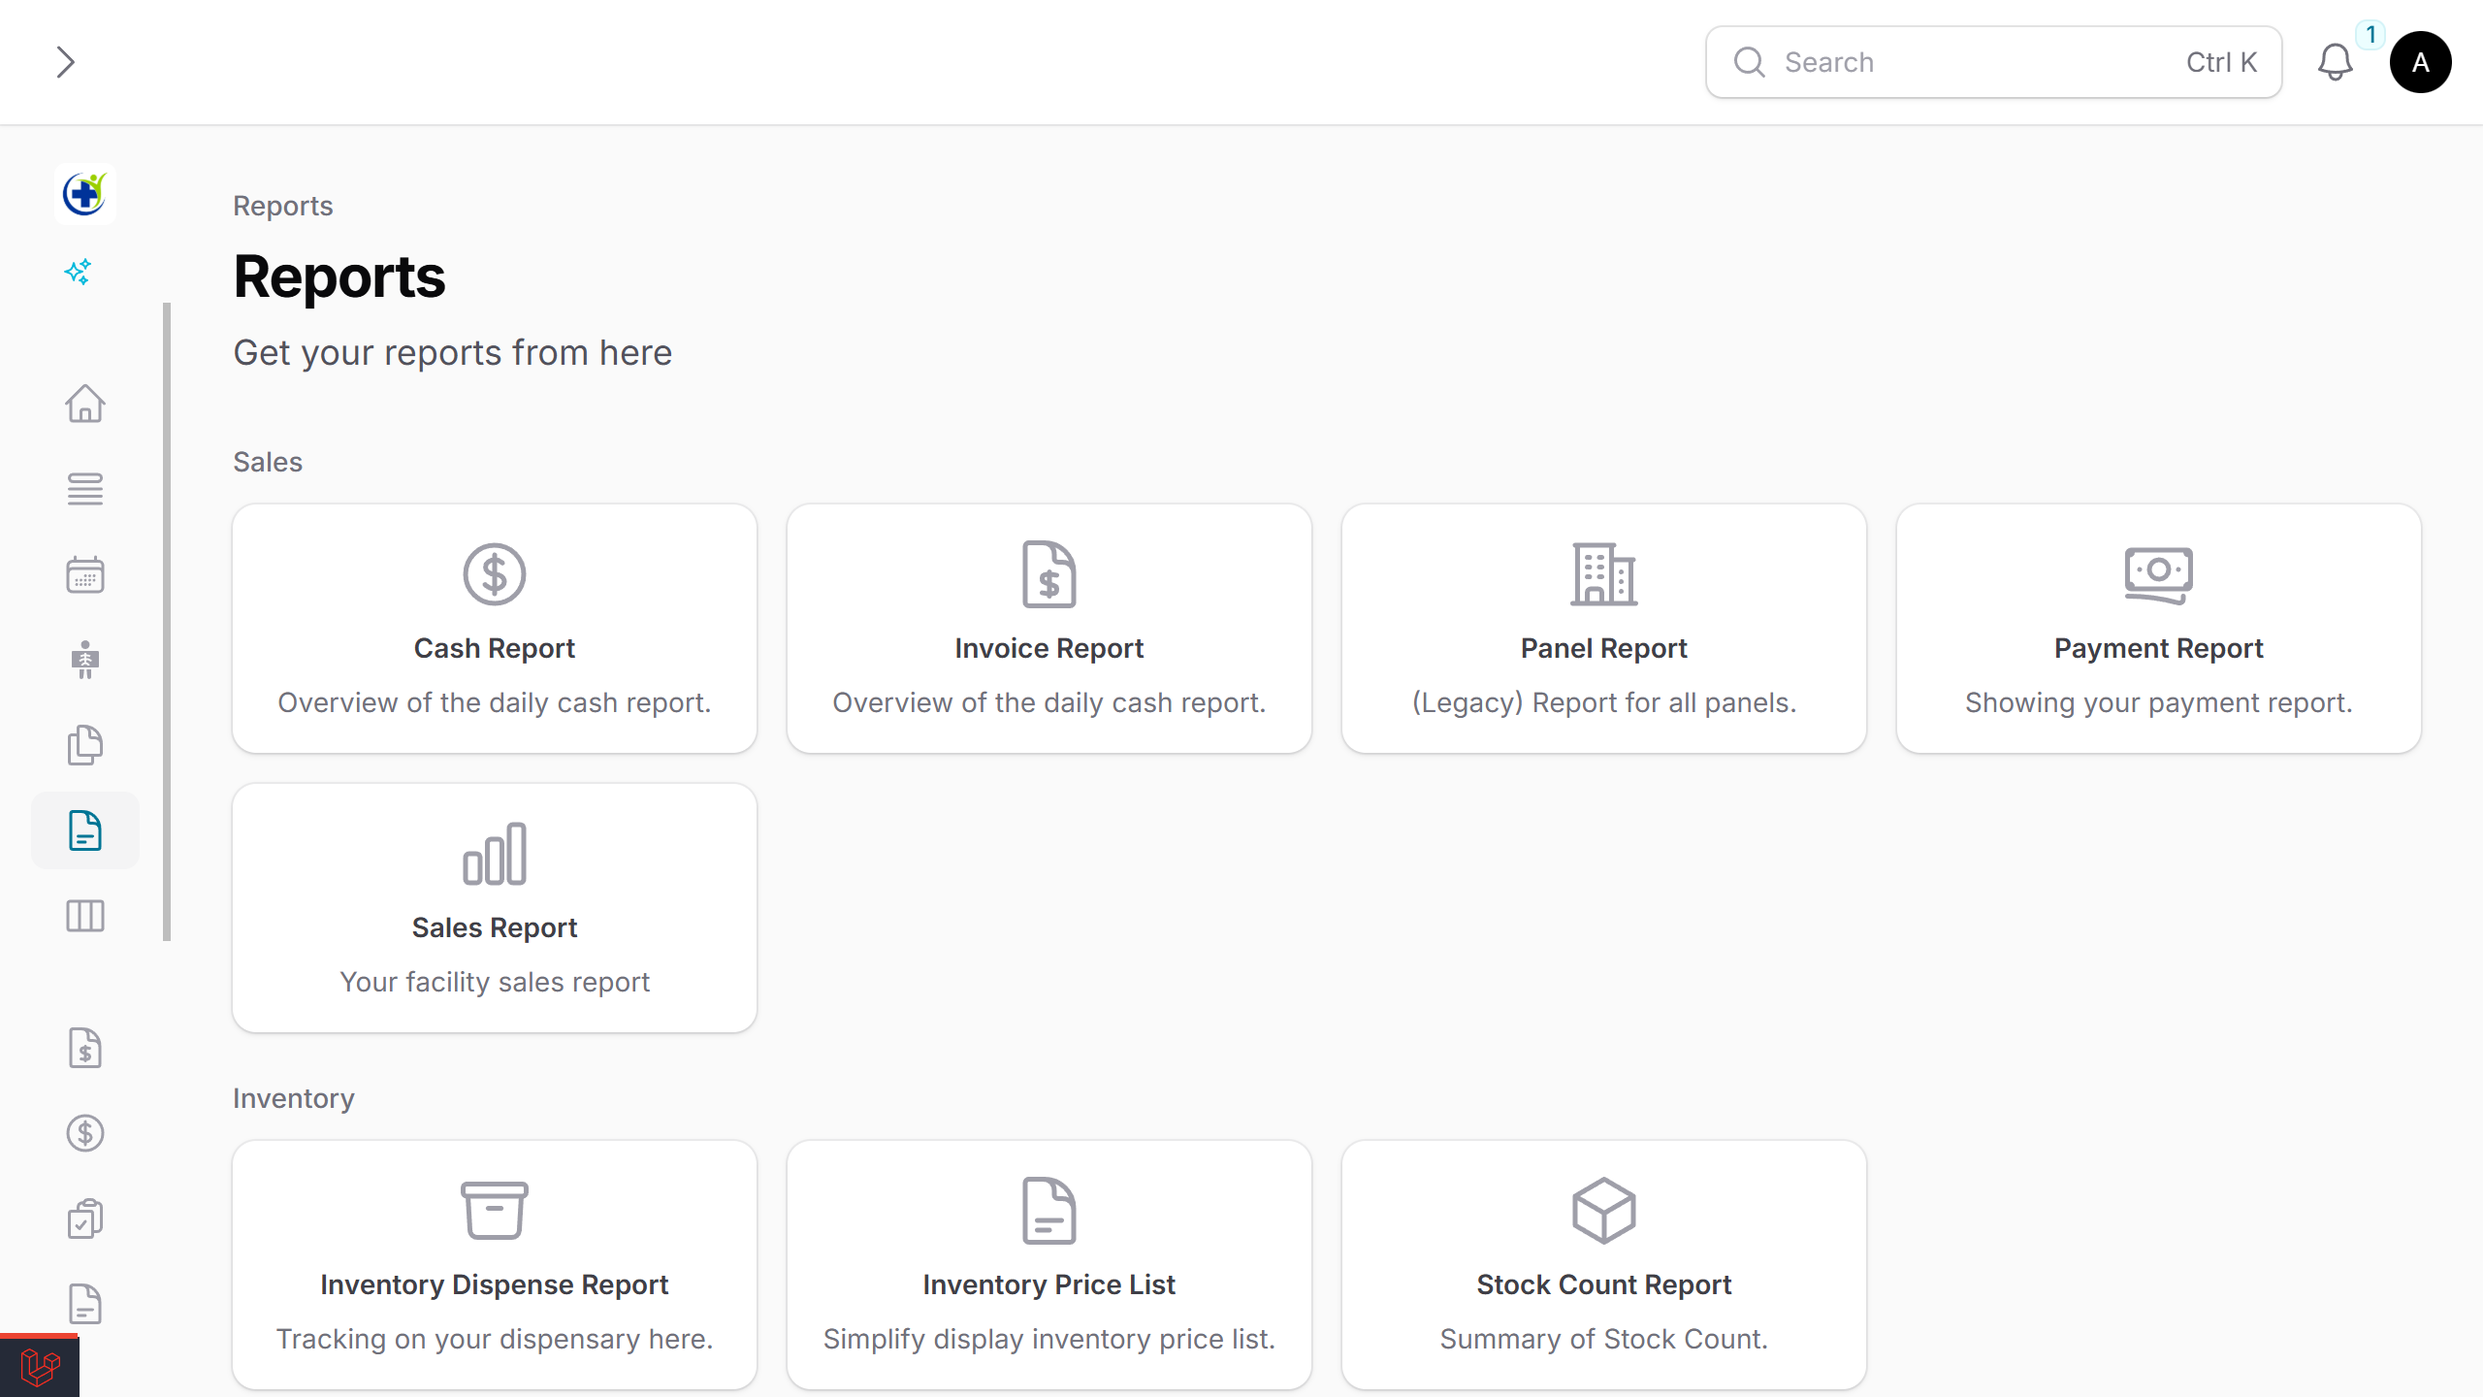
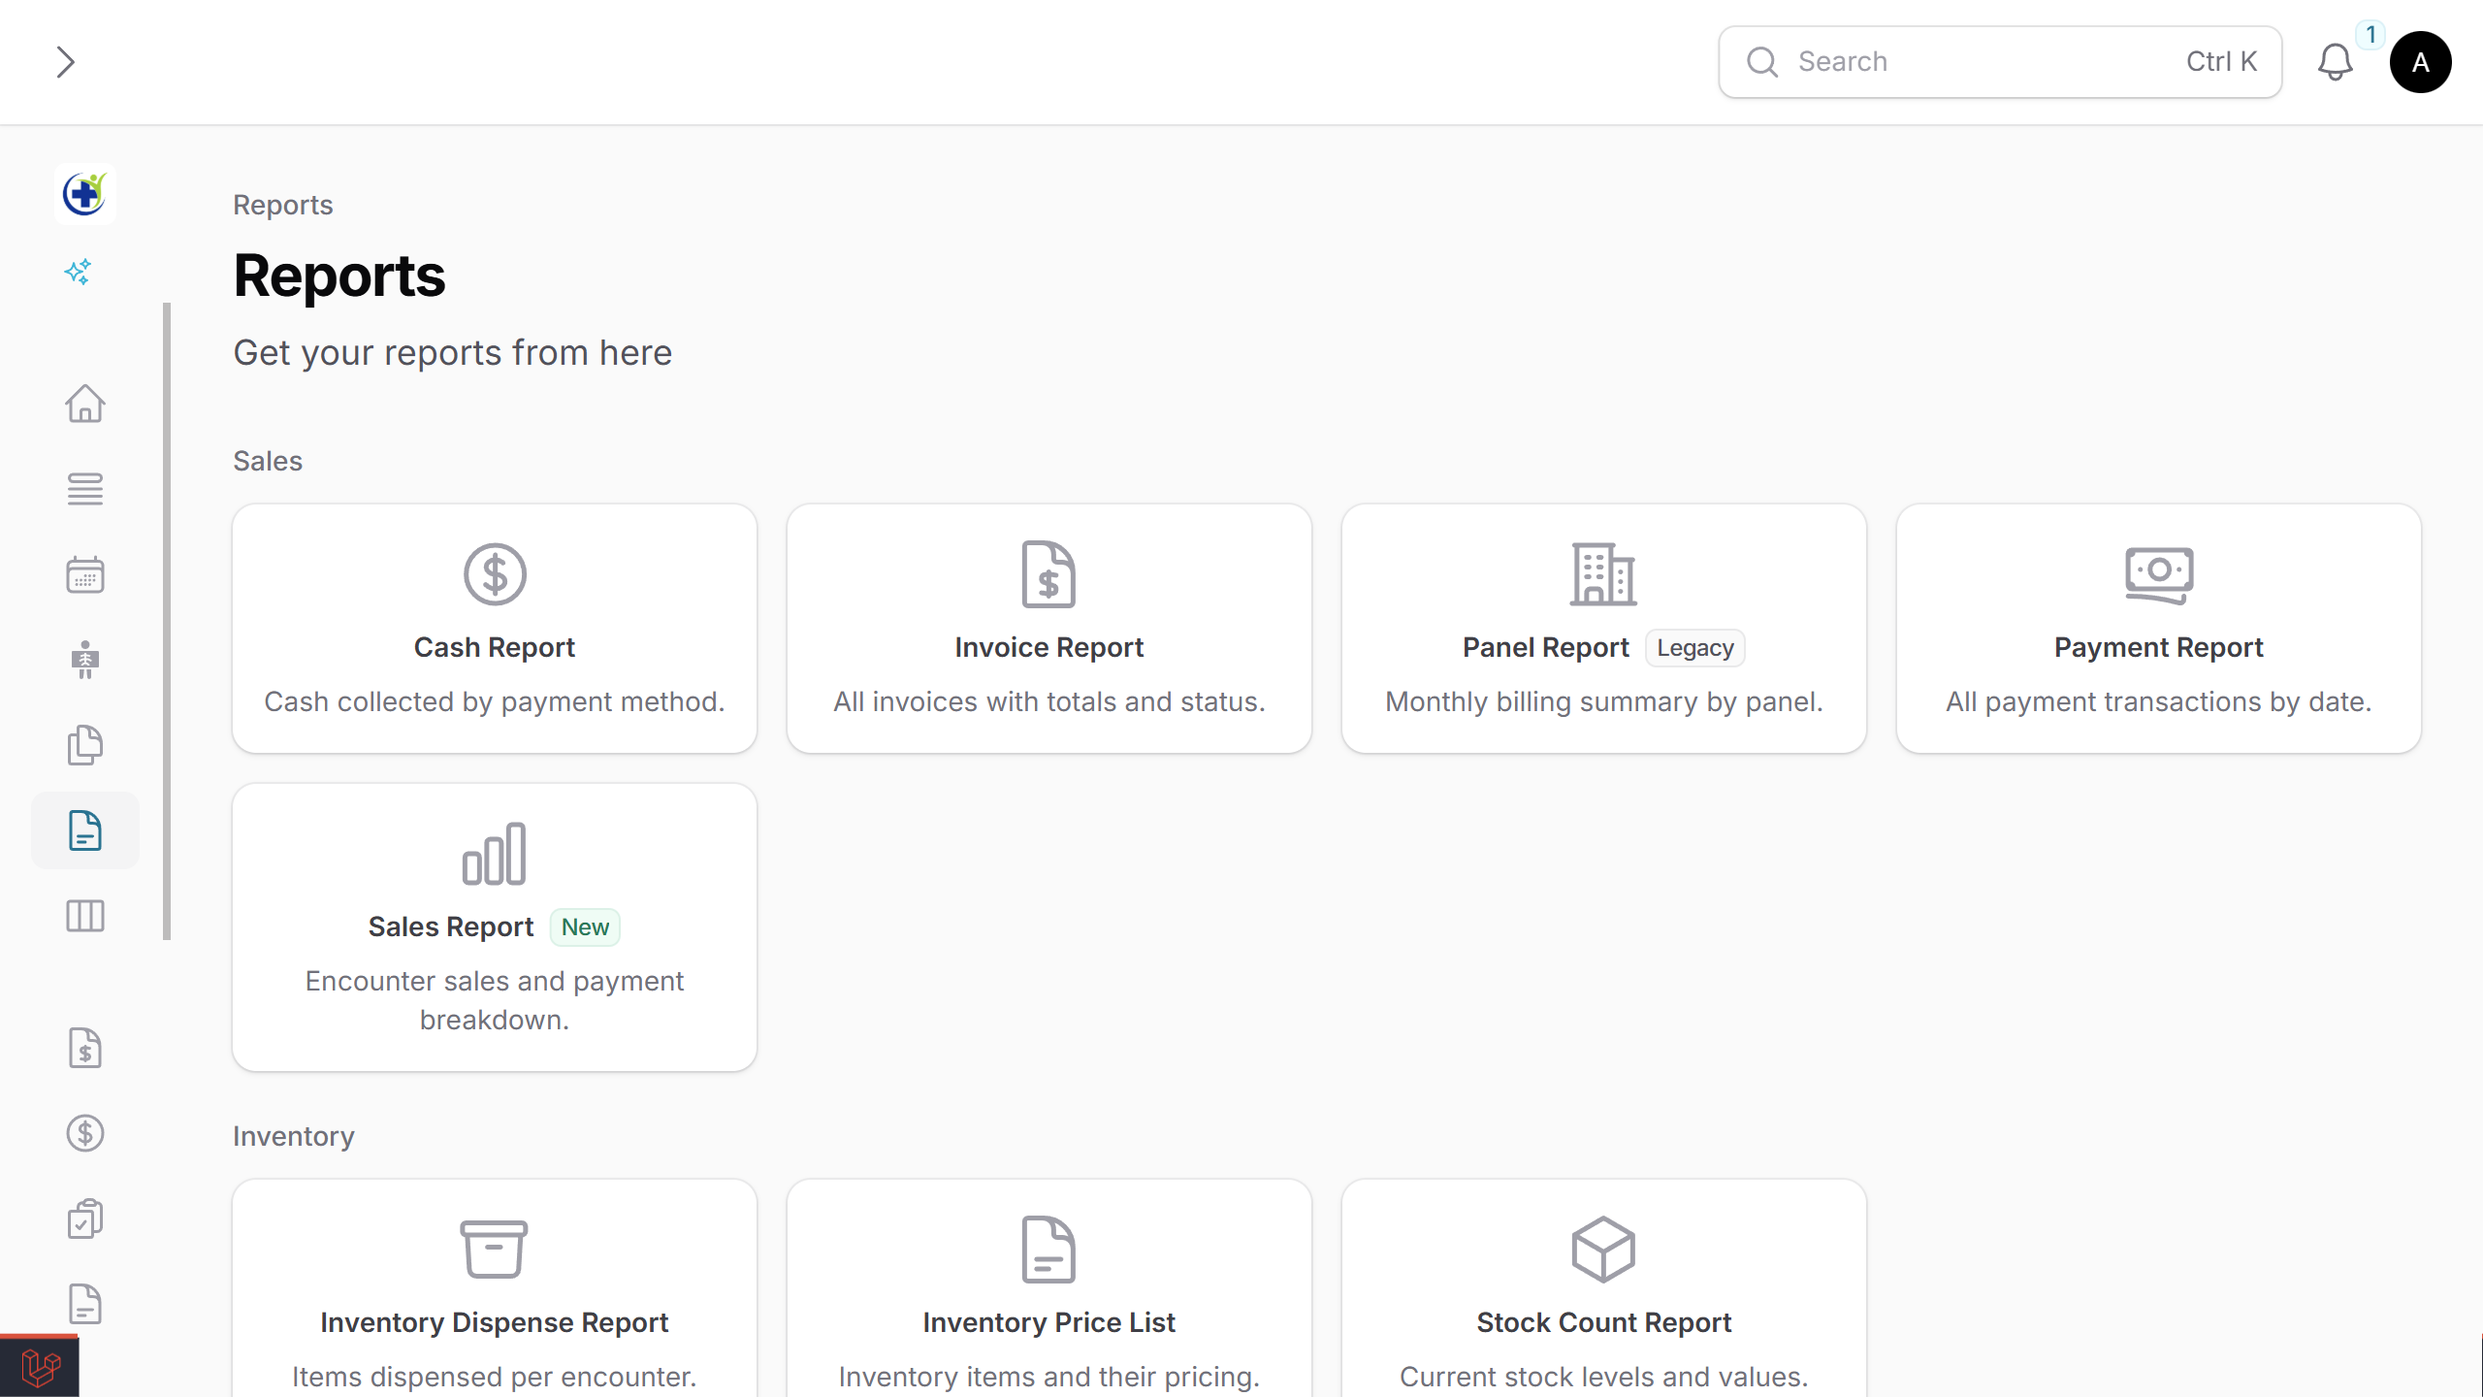
Added badge in card item

diff --git a/resources/views/pages/cards-page.blade.php b/resources/views/pages/cards-page.blade.php
@@ -191,6 +191,8 @@
                                 $itemColor = $item->getColor();
                                 $itemIcon = $item->getIcon();
                                 $itemLabel = $item->getLabel();
+                                $itemBadge = $item->getBadge();
+                                $itemBadgeColor = $item->getBadgeColor();
                                 $itemDescription = $item->getDescription();
                                 $itemUrl = $item->getUrl();
                                 $openInNewTab = $item->shouldOpenUrlInNewTab();
@@ -287,15 +289,29 @@
                                         />
                                     @endif
 
-                                    <h5 @class([
-                                        'font-semibold text-sm text-gray-700 dark:text-gray-200',
-                                        'text-start' => $itemAlignment === Alignment::Start,
-                                        'text-center' => $itemAlignment === Alignment::Center,
-                                        'text-end' => $itemAlignment === Alignment::End,
-                                        'text-justify' => $itemAlignment === Alignment::Justify,
+                                    <div @class([
+                                        'flex w-full items-center gap-2',
+                                        'justify-start' => $itemAlignment === Alignment::Start,
+                                        'justify-center' => $itemAlignment === Alignment::Center,
+                                        'justify-end' => $itemAlignment === Alignment::End,
+                                        'justify-between' => $itemAlignment === Alignment::Justify,
                                     ])>
-                                        {{ $itemLabel }}
-                                    </h5>
+                                        <h5 @class([
+                                            'font-semibold text-sm text-gray-700 dark:text-gray-200',
+                                            'text-start' => $itemAlignment === Alignment::Start,
+                                            'text-center' => $itemAlignment === Alignment::Center,
+                                            'text-end' => $itemAlignment === Alignment::End,
+                                            'text-justify' => $itemAlignment === Alignment::Justify,
+                                        ])>
+                                            {{ $itemLabel }}
+                                        </h5>
+
+                                        @if (filled($itemBadge))
+                                            <x-filament::badge :color="$itemBadgeColor" size="sm">
+                                                {{ $itemBadge }}
+                                            </x-filament::badge>
+                                        @endif
+                                    </div>
                                 </div>
 
                                 @if (filled($itemDescription))

diff --git a/tests/CardItemBadgeTest.php b/tests/CardItemBadgeTest.php
@@ -1,0 +1,103 @@
+<?php
+
+use Harvirsidhu\FilamentCards\CardItem;
+use Harvirsidhu\FilamentCards\Filament\Pages\CardsPage;
+use Illuminate\Support\HtmlString;
+
+class BadgeTestResource
+{
+    public static function getNavigationBadge(): string
+    {
+        return '24';
+    }
+
+    public static function getNavigationBadgeColor(): string
+    {
+        return 'success';
+    }
+}
+
+class BadgeTestPageWithBadge
+{
+    public static function getNavigationBadge(): string
+    {
+        return 'New';
+    }
+
+    public static function getNavigationBadgeColor(): string
+    {
+        return 'primary';
+    }
+}
+
+class BadgeTestPageWithResourceFallback
+{
+    public static function getResource(): string
+    {
+        return BadgeTestResource::class;
+    }
+}
+
+class BadgeTestCardsPage extends CardsPage
+{
+    protected static function getCards(): array
+    {
+        return [];
+    }
+
+    public static function resolveNavigationBadge(string $class): string | HtmlString | null
+    {
+        return static::resolveDiscoveredNavigationBadge($class);
+    }
+
+    public static function resolveNavigationBadgeColor(string $class): string | array | null
+    {
+        return static::resolveDiscoveredNavigationBadgeColor($class);
+    }
+}
+
+it('supports fluent badge methods', function () {
+    $item = CardItem::make('/settings')
+        ->badge('Beta')
+        ->badgeColor('warning');
+
+    expect($item->getBadge())->toBe('Beta')
+        ->and($item->getBadgeColor())->toBe('warning');
+});
+
+it('resolves badge data from page navigation methods', function () {
+    $item = new CardItem(page: BadgeTestPageWithBadge::class);
+
+    expect($item->getBadge())->toBe('New')
+        ->and($item->getBadgeColor())->toBe('primary');
+});
+
+it('prefers explicitly configured badge values over discovered values', function () {
+    $item = new CardItem(page: BadgeTestPageWithBadge::class);
+
+    $item
+        ->badge('Override')
+        ->badgeColor('danger');
+
+    expect($item->getBadge())->toBe('Override')
+        ->and($item->getBadgeColor())->toBe('danger');
+});
+
+it('falls back to resource badge values when page does not define badge methods', function () {
+    $item = new CardItem(page: BadgeTestPageWithResourceFallback::class);
+
+    expect($item->getBadge())->toBe('24')
+        ->and($item->getBadgeColor())->toBe('success');
+});
+
+it('returns null badge values when navigation methods are not available', function () {
+    $item = new CardItem(page: stdClass::class);
+
+    expect($item->getBadge())->toBeNull()
+        ->and($item->getBadgeColor())->toBeNull();
+});
+
+it('exposes safe CardsPage badge helpers when methods are missing', function () {
+    expect(BadgeTestCardsPage::resolveNavigationBadge(stdClass::class))->toBeNull()
+        ->and(BadgeTestCardsPage::resolveNavigationBadgeColor(stdClass::class))->toBeNull();
+});

diff --git a/src/Filament/Pages/CardsPage.php b/src/Filament/Pages/CardsPage.php
@@ -12,6 +12,7 @@ use Filament\Support\Enums\IconPosition;
 use Filament\Support\Enums\IconSize;
 use Harvirsidhu\FilamentCards\CardGroup;
 use Harvirsidhu\FilamentCards\CardItem;
+use Illuminate\Contracts\Support\Htmlable;
 use Illuminate\Support\Collection;
 
 abstract class CardsPage extends Page
@@ -99,6 +100,8 @@ abstract class CardsPage extends Page
                     $item
                         ->label($component::getNavigationLabel())
                         ->description(static::getNavigationDescription($component))
+                        ->badge(static::resolveDiscoveredNavigationBadge($component))
+                        ->badgeColor(static::resolveDiscoveredNavigationBadgeColor($component))
                         ->icon($component::getNavigationIcon())
                         ->sort($component::getNavigationSort() ?? 0)
                         ->url($component::getUrl());
@@ -107,6 +110,8 @@ abstract class CardsPage extends Page
                 if (is_a($component, Page::class, true) && ! is_a($component, Resource::class, true)) {
                     $item
                         ->description(static::getNavigationDescription($component))
+                        ->badge(static::resolveDiscoveredNavigationBadge($component))
+                        ->badgeColor(static::resolveDiscoveredNavigationBadgeColor($component))
                         ->sort($component::getNavigationSort() ?? 0);
                 }
 
@@ -147,6 +152,8 @@ abstract class CardsPage extends Page
 
                 return CardItem::make($pageClass)
                     ->description(static::getNavigationDescription($pageClass))
+                    ->badge(static::resolveDiscoveredNavigationBadge($pageClass))
+                    ->badgeColor(static::resolveDiscoveredNavigationBadgeColor($pageClass))
                     ->sort($pageClass::getNavigationSort() ?? 0);
             });
 
@@ -165,6 +172,30 @@ abstract class CardsPage extends Page
 
         if (property_exists($class, 'navigationDescription')) {
             return $class::$navigationDescription;
+        }
+
+        return null;
+    }
+
+    /**
+     * Try to get a navigation badge from the page/resource class.
+     */
+    protected static function resolveDiscoveredNavigationBadge(string $class): string | Htmlable | null
+    {
+        if (method_exists($class, 'getNavigationBadge')) {
+            return $class::getNavigationBadge();
+        }
+
+        return null;
+    }
+
+    /**
+     * Try to get a navigation badge color from the page/resource class.
+     */
+    protected static function resolveDiscoveredNavigationBadgeColor(string $class): string | array | null
+    {
+        if (method_exists($class, 'getNavigationBadgeColor')) {
+            return $class::getNavigationBadgeColor();
         }
 
         return null;

diff --git a/src/CardItem.php b/src/CardItem.php
@@ -40,6 +40,10 @@ class CardItem
 
     protected Alignment | string | Closure | null $alignment = null;
 
+    protected string | Htmlable | Closure | null $badge = null;
+
+    protected string | array | Closure | null $badgeColor = null;
+
     public function __construct(?string $page = null, string | Closure | null $url = null)
     {
         $this->page = $page;
@@ -89,6 +93,74 @@ class CardItem
     public function getPage(): ?string
     {
         return $this->page;
+    }
+
+    public function badge(string | Htmlable | Closure | null $badge): static
+    {
+        $this->badge = $badge;
+
+        return $this;
+    }
+
+    public function getBadge(): string | Htmlable | null
+    {
+        $badge = $this->evaluate($this->badge);
+
+        if (filled($badge)) {
+            return $badge;
+        }
+
+        if ($this->page !== null) {
+            if (method_exists($this->page, 'getNavigationBadge')) {
+                $badge = $this->page::getNavigationBadge();
+
+                if (filled($badge)) {
+                    return $badge;
+                }
+            }
+
+            if ($resource = $this->getPageResource()) {
+                if (method_exists($resource, 'getNavigationBadge')) {
+                    return $resource::getNavigationBadge();
+                }
+            }
+        }
+
+        return null;
+    }
+
+    public function badgeColor(string | array | Closure | null $badgeColor): static
+    {
+        $this->badgeColor = $badgeColor;
+
+        return $this;
+    }
+
+    public function getBadgeColor(): string | array | null
+    {
+        $badgeColor = $this->evaluate($this->badgeColor);
+
+        if (filled($badgeColor)) {
+            return $badgeColor;
+        }
+
+        if ($this->page !== null) {
+            if (method_exists($this->page, 'getNavigationBadgeColor')) {
+                $badgeColor = $this->page::getNavigationBadgeColor();
+
+                if (filled($badgeColor)) {
+                    return $badgeColor;
+                }
+            }
+
+            if ($resource = $this->getPageResource()) {
+                if (method_exists($resource, 'getNavigationBadgeColor')) {
+                    return $resource::getNavigationBadgeColor();
+                }
+            }
+        }
+
+        return null;
     }
 
     public function getLabel(): string | Htmlable | null

diff --git a/README.md b/README.md
@@ -162,9 +162,10 @@ class CompanySettings extends Page
 3. Checks `canAccess()` on each component (respects authorization)
 4. Checks cards visibility via `showInFilamentCards()` or `$showInFilamentCards` (if defined on the component), otherwise falls back to `shouldRegisterNavigation()`
 5. Uses each page's `$navigationLabel`, `$navigationIcon`, and URL
-6. **New:** Checks for `$navigationDescription` property (or `getNavigationDescription()` method) on the page class
-7. Groups cards by `getFilamentCardsGroup()` / `$filamentCardsGroup` (if defined), otherwise falls back to `$navigationGroup`
-8. Sorts by `$navigationSort`
+6. Reads `getNavigationBadge()` / `getNavigationBadgeColor()` when available
+7. **New:** Checks for `$navigationDescription` property (or `getNavigationDescription()` method) on the page class
+8. Groups cards by `getFilamentCardsGroup()` / `$filamentCardsGroup` (if defined), otherwise falls back to `$navigationGroup`
+9. Sorts by `$navigationSort`
 
 ### Hiding Auto-Discovered Cards
 
@@ -331,7 +332,7 @@ CardItem::make('/custom/path')          // URL string
 CardItem::make('https://example.com')   // External URL
 ```
 
-When a Page or Resource class is passed, the card automatically resolves its `label`, `icon`, and `url` from the class's navigation properties.
+When a Page or Resource class is passed, the card automatically resolves its `label`, `icon`, `badge`, `badgeColor`, and `url` from the class's navigation properties.
 
 ### `label()`
 
@@ -362,6 +363,27 @@ class CompanySettings extends Page
     public static ?string $navigationDescription = 'Manage company details.';
 }
 ```
+
+### `badge()`
+
+Add a badge to the right side of the card title:
+
+```php
+CardItem::make(CompanySettings::class)
+    ->badge('Beta')
+```
+
+### `badgeColor()`
+
+Set the badge color using Filament color names (or an equivalent color definition):
+
+```php
+CardItem::make(CompanySettings::class)
+    ->badge('12')
+    ->badgeColor('primary')
+```
+
+**Auto-Discovery:** If you are using `discoverClusterCards()` or `discoverResourceCards()`, badge values are read from `getNavigationBadge()` and `getNavigationBadgeColor()` when available on the discovered Page/Resource.
 
 ### `icon()`
 
